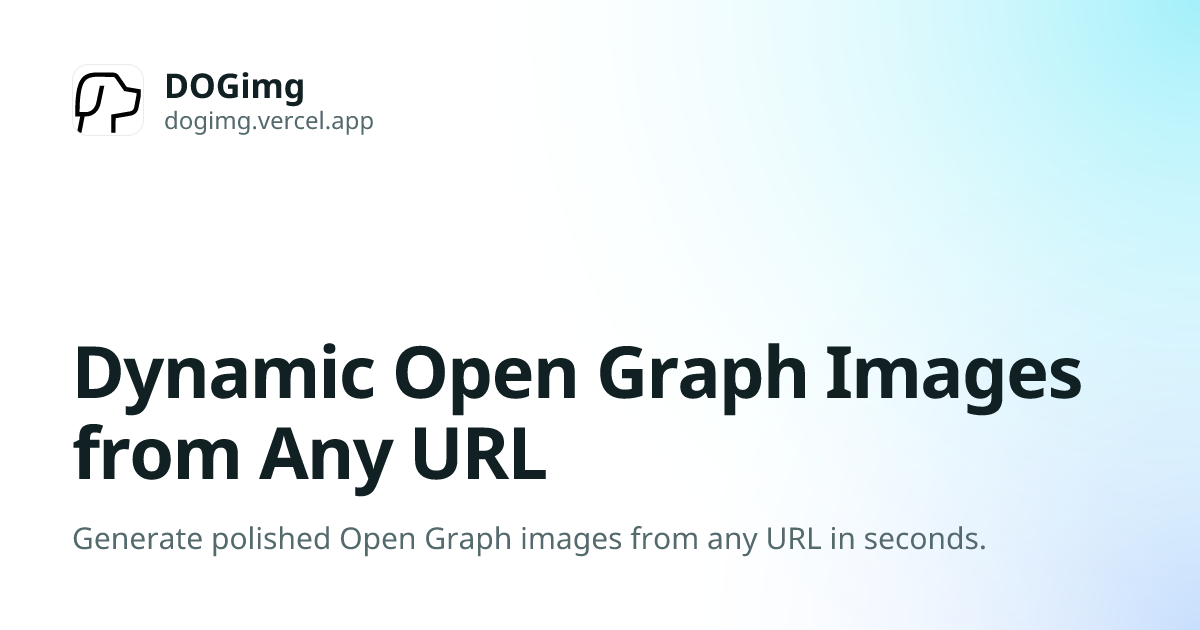
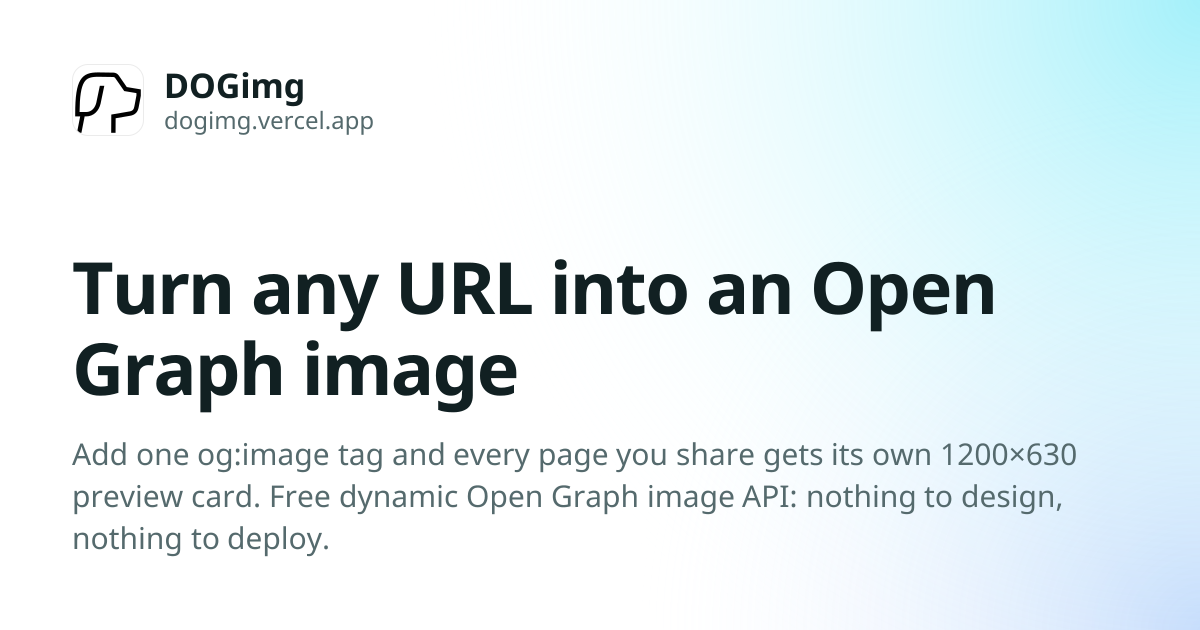
Refresh the README's intro and example cards
The intro now says what the home page says. The four example images are
re-rendered from a production build: DOGimg's own card had the old title
and description on it, and all four predate the move to the Node
runtime.

Changed region(s): [[0.0617, 0.3921, 0.925, 0.8746]]

diff --git a/README.md b/README.md
@@ -2,9 +2,10 @@
 
 Turn any URL into an Open Graph image.
 
-DOGimg reads a page's title, description, icon and theme color, and draws a
-1200x630 card from them. Point your `og:image` at one URL and every page gets
-its own preview. Nothing to design, nothing to deploy.
+Add one `og:image` tag, and every page you share gets its own preview card: its
+title, its icon, its color. Nothing to design, nothing to deploy.
+
+DOGimg is short for Dynamic Open Graph image.
 
 ## Try It
 
